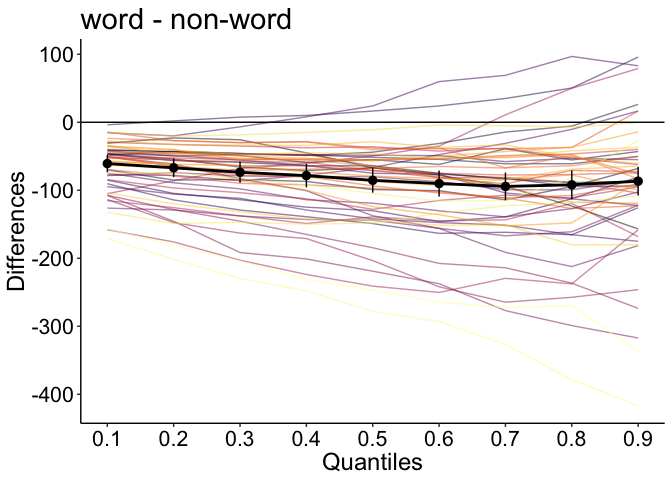
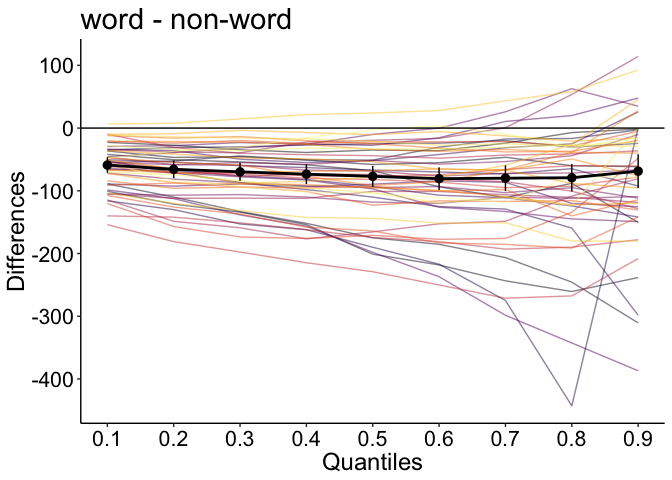
update hsf vignette

diff --git a/docs/hsf.md b/docs/hsf.md
@@ -1,7 +1,7 @@
 Hierarchical shift function
 ================
 Guillaume A. Rousselet
-2019-02-25
+2019-02-26
 
 -   [Introduction](#introduction)
 -   [Example 1: simulated data with a uniform shift](#example-1-simulated-data-with-a-uniform-shift)
@@ -28,6 +28,9 @@ Guillaume A. Rousselet
     -   [Compute shift functions for a subset of participants](#compute-shift-functions-for-a-subset-of-participants)
     -   [Illustrate results](#illustrate-results-1)
     -   [Reverse order of conditions](#reverse-order-of-conditions)
+    -   [Quartiles instead of deciles](#quartiles-instead-of-deciles)
+    -   [99% confidence intervals](#confidence-intervals)
+    -   [More quantiles?](#more-quantiles)
 -   [References](#references)
 
 ``` r
@@ -183,7 +186,7 @@ out$adjusted_pvalues
 Stochastic dominance
 --------------------
 
-Does one condition dominates the other at all quantiles? In how many participants? See Speckman et al. (2008) for a great introduction to stochastic dominance.
+Does one condition dominate the other at all quantiles? In how many participants? See Speckman et al. (2008) for a great introduction to stochastic dominance.
 
 ### Participants with all quantile differences &gt; 0
 
@@ -344,7 +347,7 @@ Data from the [French Lexicon Project](https://sites.google.com/site/frenchlexic
 
 ``` r
 #> get data - tibble = `flp`
-load("./data/flp.RData") # reaction time data - check `help(flp)`
+flp <- flp # reaction time data - check `help(flp)`
 #> columns =
 #> - 1 = participant
 #> - 2 = rt
@@ -405,6 +408,7 @@ Compute shift functions for a subset of participants
 ----------------------------------------------------
 
 ``` r
+set.seed(20)
 id <- unique(flp$participant)
 df <- subset(flp, flp$participant %in% sample(id, 50, replace = FALSE))
 out <- hsf(df, rt ~ condition + participant)
@@ -430,6 +434,36 @@ plot_hsf(out)
 ```
 
 ![](hsf_files/figure-markdown_github/unnamed-chunk-26-1.png)
+
+Quartiles instead of deciles
+----------------------------
+
+``` r
+plot_hsf(hsf(df, rt ~ condition + participant, qseq = c(0.25, 0.5, 0.75)))
+```
+
+![](hsf_files/figure-markdown_github/unnamed-chunk-27-1.png)
+
+99% confidence intervals
+------------------------
+
+``` r
+plot_hsf(hsf(df, rt ~ condition + participant, alpha = 0.01))
+```
+
+![](hsf_files/figure-markdown_github/unnamed-chunk-28-1.png)
+
+More quantiles?
+---------------
+
+With about 1000 trials per condition we can study the distributions in more detail.
+
+``` r
+p <- plot_hsf(hsf(df, rt ~ condition + participant, qseq = seq(0.05, 0.95, 0.05)))
+p + theme(axis.text.x = element_text(size = 10))
+```
+
+![](hsf_files/figure-markdown_github/unnamed-chunk-29-1.png)
 
 References
 ==========
